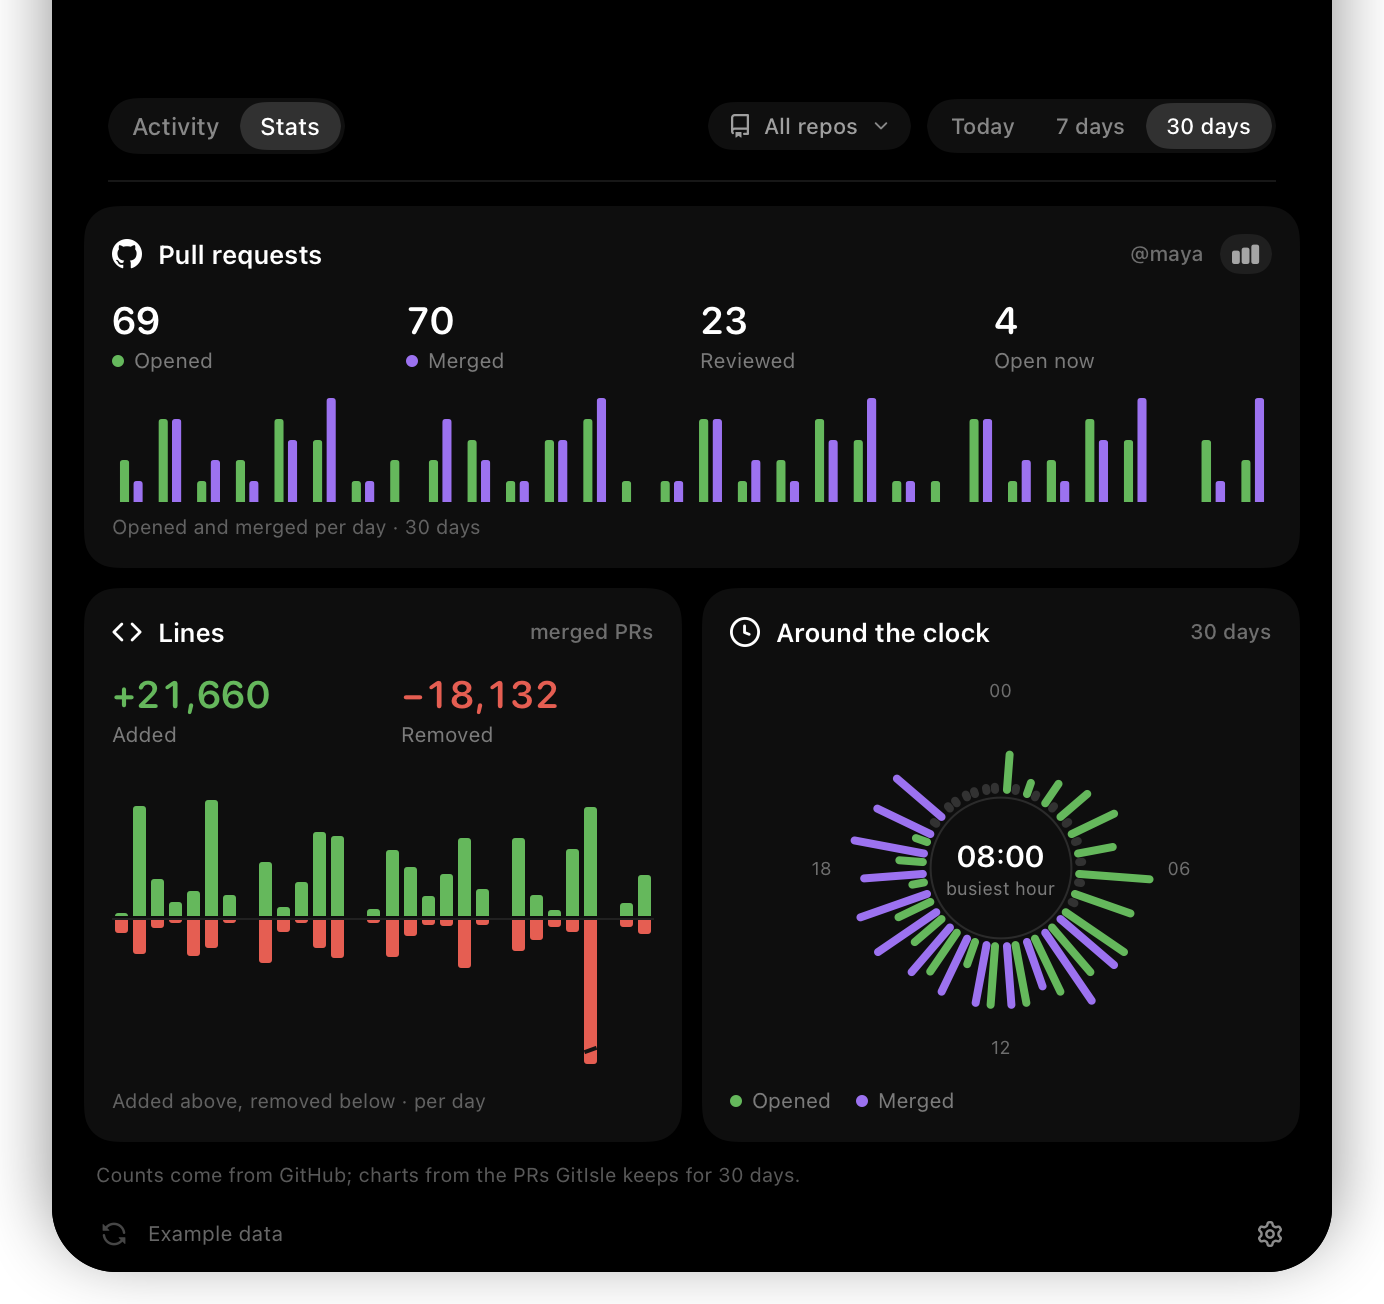
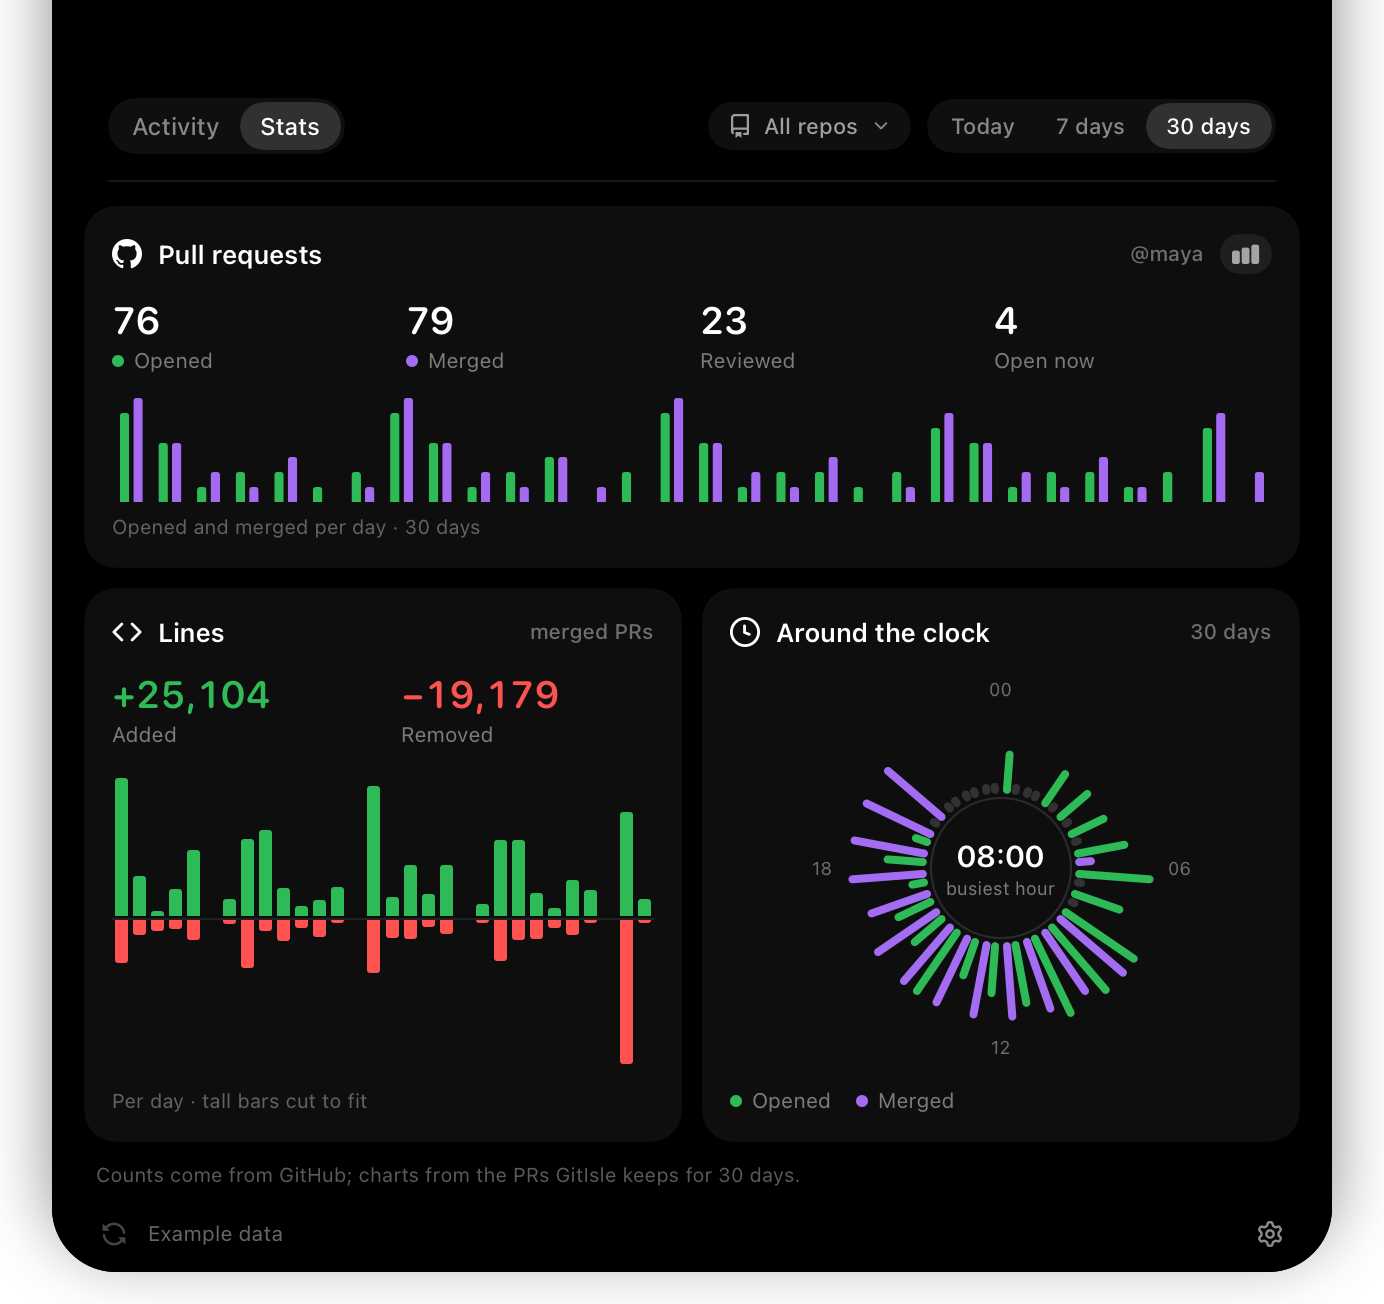
fix: Stats charts animate on filter changes, and Lines hovers on red bars
The Lines chart's hover area only covered its top half, because the removed
bars are moved down with an offset that doesn't grow their stack. The stack
now takes the chart's full size.

Lines no longer draws a slash on bars that are cut to fit; the caption says
"tall bars cut to fit" instead.

Changing the period or repositories now animates every card:
- the clock draws each bar as its own shape, so bars grow and shrink
- the Pull requests chart shades days before the period instead of recolouring
  bars, which Swift Charts swaps without animating
- the repository filter triggers the same animation as the period

diff --git a/Sources/GitIsle/StatsView.swift b/Sources/GitIsle/StatsView.swift
@@ -22,6 +22,7 @@ struct StatsView: View {
       }
       .padding(.horizontal, 16).padding(.top, 12).padding(.bottom, 4)
       .animation(Motion.snappy, value: store.statsDays)
+      .animation(Motion.snappy, value: store.repositoryFilter)
     } onHeight: {
       contentHeight = $0
     }
@@ -167,7 +168,10 @@ private struct LinesCard: View {
 
   private func caption(_ lines: [PullRequestTrends.Lines]) -> String {
     guard let hovered, lines.indices.contains(hovered) else {
-      return "Added above, removed below · per \(hourly ? "hour" : "day")"
+      let cut = lines.contains { Double(max($0.added, $0.removed)) > DivergingBars.cap(lines) }
+      return cut
+        ? "Per \(hourly ? "hour" : "day") · tall bars cut to fit"
+        : "Added above, removed below · per \(hourly ? "hour" : "day")"
     }
     let bucket = lines[hovered]
     let when =
@@ -179,13 +183,13 @@ private struct LinesCard: View {
 }
 
 /// One bar per hour or day, added above the middle and removed below. One huge cleanup would
-/// flatten every other bar, so bars stop at a cap set by the typical ones and show a break.
+/// flatten every other bar, so bars stop at a cap set by the typical ones; the caption says so.
 private struct DivergingBars: View {
   let lines: [PullRequestTrends.Lines]
   @Binding var hovered: Int?
 
   /// Three times the upper quartile of the non-zero values, so only outliers get cut.
-  private var cap: Double {
+  static func cap(_ lines: [PullRequestTrends.Lines]) -> Double {
     let values = lines.flatMap { [$0.added, $0.removed] }.filter { $0 > 0 }.sorted()
     guard let largest = values.last else { return 1 }
     let quartile = values[min(values.count - 1, values.count * 3 / 4)]
@@ -193,7 +197,7 @@ private struct DivergingBars: View {
   }
 
   var body: some View {
-    let cap = self.cap
+    let cap = Self.cap(lines)
     GeometryReader { proxy in
       let half = proxy.size.height / 2
       let slot = proxy.size.width / CGFloat(max(lines.count, 1))
@@ -209,6 +213,9 @@ private struct DivergingBars: View {
             .frame(width: width).offset(x: x, y: half + 1).opacity(dim ? 0.45 : 1)
         }
       }
+      // Offsets move the removed bars down without growing the stack, so it takes the full
+      // size here or hovering would only reach the top half.
+      .frame(width: proxy.size.width, height: proxy.size.height, alignment: .topLeading)
       .contentShape(Rectangle())
       .onContinuousHover { phase in
         switch phase {
@@ -222,7 +229,7 @@ private struct DivergingBars: View {
     .accessibilityLabel("Lines added and removed")
   }
 
-  /// A bar of `value` lines, cut with a break mark past the cap.
+  /// A bar of `value` lines, stopping at the cap.
   private func bar(_ value: Int, cap: Double, half: CGFloat, color: Color, up: Bool) -> some View {
     let length = value == 0 ? 0 : max(1.5, (half - 1) * min(Double(value), cap) / cap)
     return VStack(spacing: 0) {
@@ -233,12 +240,6 @@ private struct DivergingBars: View {
       )
       .fill(color)
       .frame(height: length)
-      .overlay(alignment: up ? .top : .bottom) {
-        if Double(value) > cap {
-          Rectangle().fill(Color(white: 0.08)).frame(height: 2)
-            .rotationEffect(.degrees(-20)).offset(y: up ? 6 : -6)
-        }
-      }
       if !up { Spacer(minLength: 0) }
     }
     .frame(height: half - 1)
@@ -264,6 +265,7 @@ private struct ClockCard: View {
         VStack(spacing: 1) {
           Text(busiest.map { String(format: "%02d:00", $0) } ?? "—")
             .font(.system(size: 15, weight: .semibold, design: .rounded)).monospacedDigit()
+            .contentTransition(.numericText(value: Double(busiest ?? -1)))
           Text("busiest hour").font(.system(size: 9)).foregroundStyle(.white.opacity(0.45))
         }
       }
@@ -289,50 +291,74 @@ private struct ClockCard: View {
 }
 
 /// 24 hours around a circle, midnight at the top, with an opened and a merged bar side by
-/// side for each hour.
+/// side for each hour. Each bar is its own shape, so a new period grows and shrinks them.
 private struct HourClock: View {
   let opened: [Int]
   let merged: [Int]
 
   var body: some View {
-    Canvas { context, size in draw(in: &context, size: size) }
-  }
-
-  private func draw(in context: inout GraphicsContext, size: CGSize) {
-    let center = CGPoint(x: size.width / 2, y: size.height / 2)
-    let radius: Double = min(size.width, size.height) / 2
-    let inner: Double = radius * 0.4
-    let length: Double = radius * 0.42
     let peak = Double(max((opened + merged).max() ?? 0, 1))
-    let ring: Double = inner - 4
-    let circle = CGRect(x: center.x - ring, y: center.y - ring, width: ring * 2, height: ring * 2)
-    context.stroke(Path(ellipseIn: circle), with: .color(.white.opacity(0.12)), lineWidth: 1)
     let series: [([Int], Double, Color)] = [
       (opened, -0.055, Palette.open), (merged, 0.055, Palette.merged),
     ]
-    for hour in 0..<24 {
-      for (values, offset, color) in series {
-        let angle: Double = angle(hour: Double(hour) + 0.5) + offset
-        let value = Double(values[hour])
-        let end: Double = inner + max(length * value / peak, 1.5)
-        var bar = Path()
-        bar.move(to: point(center, inner, angle))
-        bar.addLine(to: point(center, end, angle))
-        let tint: Color = value > 0 ? color : .white.opacity(0.15)
-        context.stroke(bar, with: .color(tint), style: StrokeStyle(lineWidth: 4, lineCap: .round))
+    GeometryReader { proxy in
+      let radius = min(proxy.size.width, proxy.size.height) / 2
+      let center = CGPoint(x: proxy.size.width / 2, y: proxy.size.height / 2)
+      ZStack {
+        Circle().stroke(.white.opacity(0.12), lineWidth: 1)
+          .frame(width: (radius * 0.4 - 4) * 2, height: (radius * 0.4 - 4) * 2)
+          .position(center)
+        ForEach(0..<24, id: \.self) { hour in
+          ForEach(0..<2, id: \.self) { index in
+            let (values, offset, color) = series[index]
+            let value = Double(values[hour])
+            RadialBar(
+              angle: Self.angle(hour: Double(hour) + 0.5) + offset,
+              length: value / peak
+            )
+            .stroke(
+              value > 0 ? color : .white.opacity(0.15),
+              style: StrokeStyle(lineWidth: 4, lineCap: .round))
+          }
+        }
+        ForEach([0, 6, 12, 18], id: \.self) { hour in
+          let angle = Self.angle(hour: Double(hour))
+          Text(String(format: "%02d", hour)).font(.system(size: 9))
+            .foregroundStyle(.white.opacity(0.4))
+            .position(
+              x: center.x + radius * 0.82 * cos(angle) + 9 * cos(angle),
+              y: center.y + radius * 0.82 * sin(angle) + 9 * sin(angle))
+        }
       }
-    }
-    for hour in [0, 6, 12, 18] {
-      let label = Text(String(format: "%02d", hour)).font(.system(size: 9))
-        .foregroundStyle(.white.opacity(0.4))
-      context.draw(label, at: point(center, inner + length + 9, angle(hour: Double(hour))))
     }
   }
 
   /// Midnight at the top, going clockwise.
-  private func angle(hour: Double) -> Double { hour / 24 * 2 * .pi - .pi / 2 }
+  static func angle(hour: Double) -> Double { hour / 24 * 2 * .pi - .pi / 2 }
+}
 
-  private func point(_ center: CGPoint, _ distance: Double, _ angle: Double) -> CGPoint {
-    CGPoint(x: center.x + distance * cos(angle), y: center.y + distance * sin(angle))
+/// One hour's bar: it starts at 0.4 of the radius and grows outwards by `length`, a share of
+/// the busiest hour, up to 0.42 of the radius.
+private struct RadialBar: Shape {
+  let angle: Double
+  var length: Double
+
+  var animatableData: Double {
+    get { length }
+    set { length = newValue }
+  }
+
+  func path(in rect: CGRect) -> Path {
+    let radius = min(rect.width, rect.height) / 2
+    let inner = radius * 0.4
+    let end = inner + max(radius * 0.42 * length, 1.5)
+    var path = Path()
+    path.move(to: point(rect, inner))
+    path.addLine(to: point(rect, end))
+    return path
+  }
+
+  private func point(_ rect: CGRect, _ distance: Double) -> CGPoint {
+    CGPoint(x: rect.midX + distance * cos(angle), y: rect.midY + distance * sin(angle))
   }
 }

diff --git a/Sources/GitIsle/TrendChart.swift b/Sources/GitIsle/TrendChart.swift
@@ -2,8 +2,8 @@ import Charts
 import IslandCore
 import SwiftUI
 
-/// A 30-day trend of one or more series in one of several styles. The selected period is
-/// emphasized, and hovering a day shows its values in the caption.
+/// A 30-day trend of one or more series in one of several styles. Days before the selected
+/// period are shaded, and hovering a day shows its values in the caption.
 struct TrendChart: View {
   struct Series {
     let name: String
@@ -25,7 +25,6 @@ struct TrendChart: View {
     let series: Int
     let date: Date
     let value: Double
-    let active: Bool
     var id: String { "\(series)-\(date.timeIntervalSinceReferenceDate)" }
   }
 
@@ -39,12 +38,11 @@ struct TrendChart: View {
   private var points: [Point] {
     series.enumerated().flatMap { index, series in
       var running = 0.0
-      return series.values.enumerated().compactMap { offset, day -> Point? in
+      return series.values.compactMap { day -> Point? in
         guard let date = Self.parser.date(from: day.day) else { return nil }
         running += day.value
         return Point(
-          series: index, date: date, value: style == .cumulative ? running : day.value,
-          active: offset >= series.values.count - highlight)
+          series: index, date: date, value: style == .cumulative ? running : day.value)
       }
     }
   }
@@ -55,17 +53,10 @@ struct TrendChart: View {
     let hovered = selected.map { day in
       points.filter { Calendar.current.isDate($0.date, inSameDayAs: day) }
     }
+    let days = Array(Set(points.map(\.date))).sorted()
+    let start = days.count > highlight ? days[days.count - highlight] : nil
     VStack(alignment: .leading, spacing: 6) {
       Chart {
-        // Bars colour the selected period; other styles mark where it starts, and only
-        // when it is shorter than the chart.
-        if style != .bars, points.first?.active == false,
-          let start = points.first(where: \.active)?.date
-        {
-          RuleMark(x: .value("Period start", start))
-            .foregroundStyle(.white.opacity(0.18))
-            .lineStyle(StrokeStyle(lineWidth: 1, dash: [3, 3]))
-        }
         ForEach(points) { point in
           let tint = series[point.series].tint
           let name = series[point.series].name
@@ -73,7 +64,7 @@ struct TrendChart: View {
           case .bars:
             BarMark(x: .value("Day", point.date, unit: .day), y: .value("Value", point.value))
               .position(by: .value("Series", name))
-              .foregroundStyle(point.active ? tint : .white.opacity(0.14))
+              .foregroundStyle(tint)
               .cornerRadius(1.5)
           case .line:
             LineMark(
@@ -113,6 +104,25 @@ struct TrendChart: View {
       .chartYScale(domain: 0...peak)
       .chartLegend(.hidden)
       .chartXSelection(value: $selected)
+      // A shade over the days before the period. Charts swaps a mark's colour without
+      // animating it, while the shade's width animates.
+      .chartOverlay { proxy in
+        GeometryReader { geometry in
+          if let frame = proxy.plotFrame.map({ geometry[$0] }) {
+            let edge = start.flatMap { day in
+              // Bars fill their whole day, so the period starts at the day's left edge;
+              // lines start halfway between the day and the one before.
+              proxy.position(forX: style == .bars ? day : day.addingTimeInterval(-43_200))
+            }
+            Rectangle()
+              // The card's own colour: its surface over the black island.
+              .fill(Color(white: 0.055).opacity(0.72))
+              .frame(width: max(0, edge ?? 0), height: frame.height)
+              .offset(x: frame.minX, y: frame.minY)
+              .allowsHitTesting(false)
+          }
+        }
+      }
       .frame(height: height)
       .animation(Motion.snappy, value: style)
       .animation(Motion.snappy, value: highlight)
